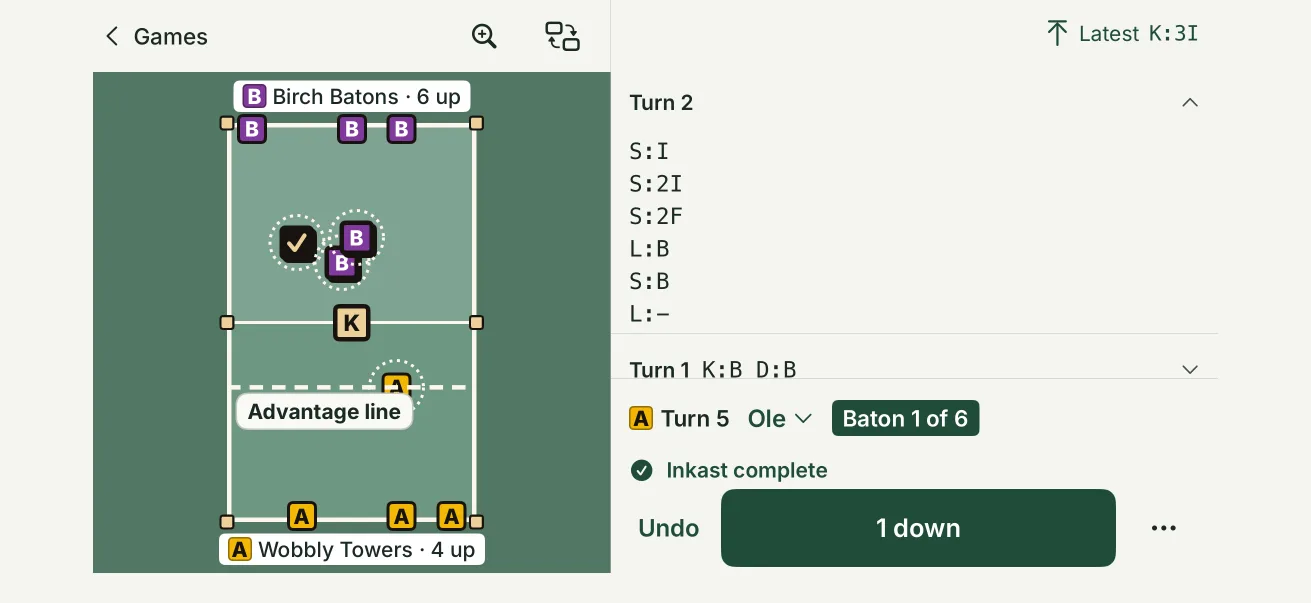
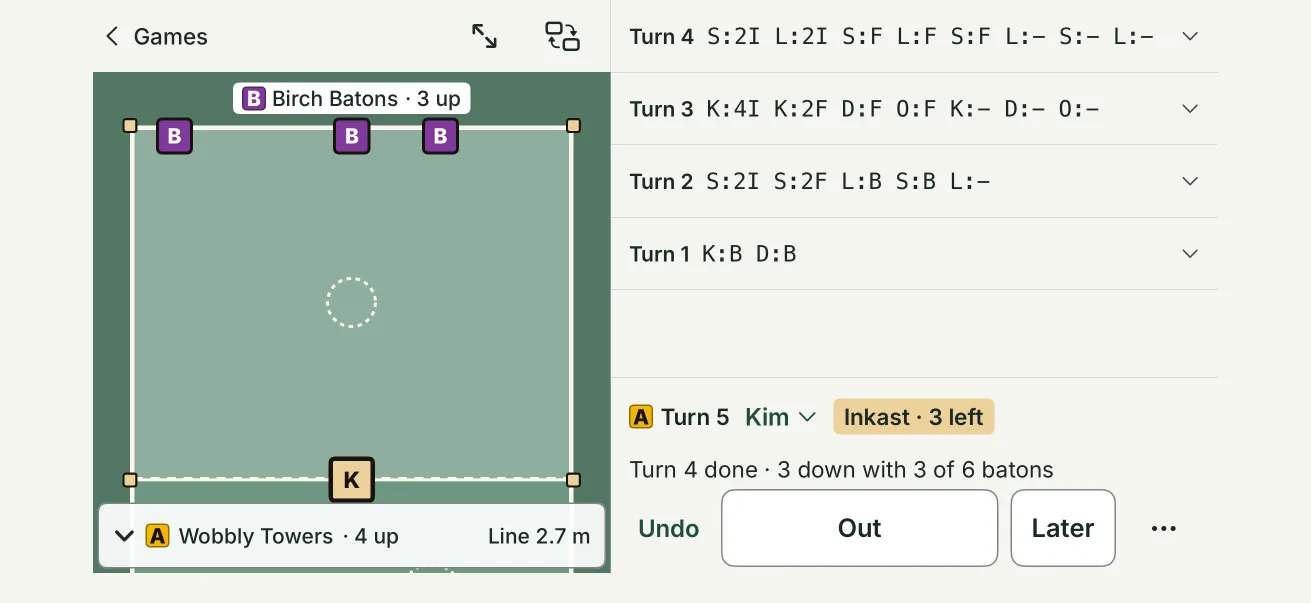
Pitchside's pages catch up with the app: iCloud Drive, the reference games, the framed half (web 1.4.1)
Pitchside's main (69098d3) now copies each finished game's file to the
scorer's own iCloud Drive (PR #15), ships fourteen real games from the
Planet Kubb archive (PR #16) and frames the half where the action is
(PR #18). The privacy page, the landing page's privacy line and the
support page's "Where are my games kept?" said a game stays on the phone
until it is shared; they now say what the app does, in the words of its
Games footer. The privacy page also says deleting the app leaves the
iCloud copies, and that the reference games' Archive file and Video
links open outside the app.

The landing page gets "Real games in the box" with two new captures,
an "In Files too" feature, and a new hero from Scorer-light.

diff --git a/AGENTS.md b/AGENTS.md
@@ -125,14 +125,26 @@ landing page for this app"; the app is the sibling `../pitchside`, read only fro
 the three URLs its App Store record names (`src/site/pitchside.mjs`, whose comment lists
 where in Pitchside's README, guide and code each claim comes from: say only what its
 `main` does). The support page carries `SUPPORT_EMAIL` as `/support/` does (Pitchside has no
-feedback button, so email is the way in). The privacy page is the app's alone: it sends
-nothing (no network code at all), keeps games and the roster in its own folder and lets a
-file go only through the share sheet; it says the website is not the app and points at
-`/privacy/` for the site. `PITCHSIDE_APP_STORE_URL` in `src/site/site.mjs` is its store
+feedback button, so email is the way in). The privacy page is the app's alone: the app
+sends nothing to us (no network code at all) and keeps games and the roster in its own
+folder; since Pitchside PR #15 each finished game it scored is also copied, as its .txt
+file with the names and turn notes, to the scorer's own iCloud Drive › Pitchside (On My
+iPhone › Kubb: Pitchside with iCloud Drive off), which the page names as Apple's, under the
+person's own Apple Account, and out of our sight; unfinished games, opened files, the
+reference games and the roster are not copied, and deleting the app leaves the iCloud
+copies. The page says the reference games' Archive file (GitHub) and Video (YouTube)
+links open outside the app, that a file goes to someone else through the share sheet,
+that the website is not the app, and points at `/privacy/` for the site. The landing
+page's privacy line and the support page's "Where are my games kept?" say the same, in the
+words of the app's own Games footer; the App Store record points App Review at this page,
+so a change to what Pitchside keeps or sends changes it first. `PITCHSIDE_APP_STORE_URL` in `src/site/site.mjs` is its store
 badge's switch, empty while the app is not in the store: then the hero says "Not in the
 App Store yet." with no badge and no button; set, Apple's badge (`APP_STORE_BADGE`) takes
 that place (`pitchsideStore`; a site test and `validate:site` pin both). It is linked from
-the footer only, never from the home page's own words, until the app is live. Its pictures
+the footer only, never from the home page's own words, until the app is live. The landing
+page has "Real games in the box" for the fourteen reference games (Pitchside PR #16: the
+first thing a new install's Games shows) and its scorer words follow the framed half
+(PR #18); its own words carry no year (a site test). Its pictures
 are the app's build captures (`pitchside/docs/design/build-shots`) as WebP in
 `public/landing/pitchside-*.webp`, iPhone captures at half size, so a new capture is a new
 file of the same name; its share card is `public/share/pitchside.png` (`pitchsideShareImage`
@@ -227,7 +239,7 @@ preview`, the browser tests, CI) gives it the pitch server on this machine
 
 `package.json`'s `version` is the web app's version. Every app shows its own version with
 the Kubb Engine's beside it (Jamie, 2026-11-20): on the web the label is that version and
-the full version of the newest engine the site carries, `1.4.0 (1.0.0)`, at the foot of
+the full version of the newest engine the site carries, `1.4.1 (1.0.0)`, at the foot of
 every reading page and of MENU, with "Also plays ..." under it in MENU only while older
 engines are carried (none today) (`src/site/release.js`, docs/CLIENT.md "Version and freshness"). The
 deployed commit stays the exact identity (freshness, reports) and is never in the label.
